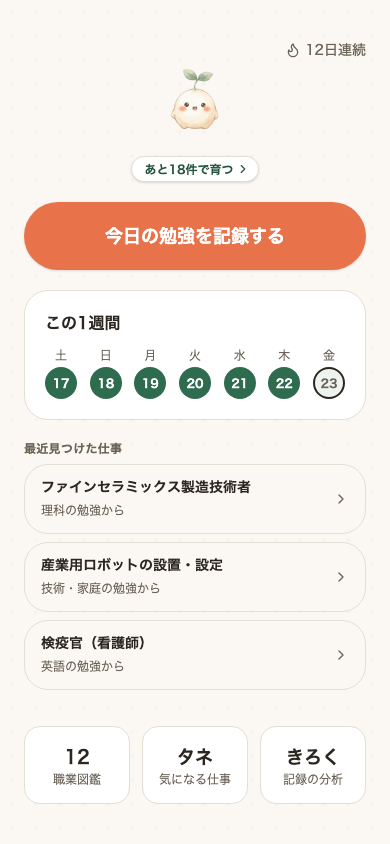
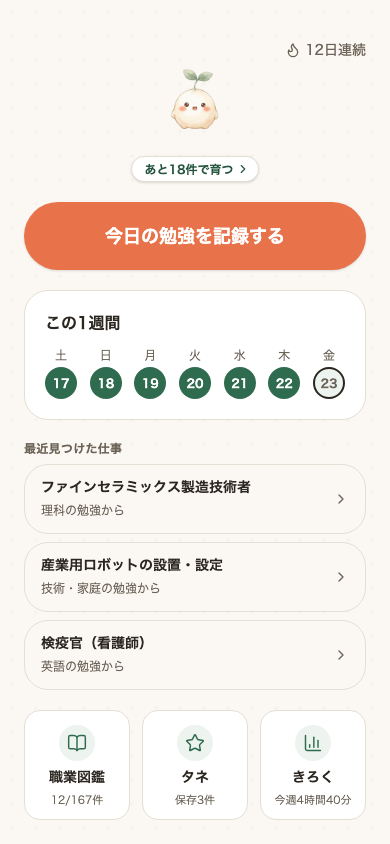
ホーム下の3つのボタンを「アイコン・名前・今の状態」にそろえる
図鑑だけ数字が主役で、タネ・きろくは言葉だけと形がばらばらで、
何のボタンか読み取りにくかった。NavButtonにまとめ、職業図鑑（12/167件）・
タネ（保存3件）・きろく（今週の合計時間）を同じ形で出す。
「タネ」の名前は検証（Q3）で確かめるため変えていない。
ホームのスクリーンショットも撮り直し。

Changed region(s): [[0.4, 0.8626, 0.5846, 0.955], [0.7077, 0.8626, 0.8923, 0.955], [0.1231, 0.8626, 0.2769, 0.955]]

diff --git a/web/src/components/HomeScreen.tsx b/web/src/components/HomeScreen.tsx
@@ -1,8 +1,9 @@
-import { ChevronRight, Flame } from "lucide-react"
+import { BarChart3, BookOpen, ChevronRight, Flame, Star, type LucideIcon } from "lucide-react"
 import { useState } from "react"
 import { motion } from "framer-motion"
 import type { RecordDetails, StudyLogEntry } from "../storage"
-import { stageProgress } from "../taneStage"
+import { formatMinutes } from "../format"
+import { MAX_JOB_COUNT, stageProgress } from "../taneStage"
 import { TaneCharacter } from "./TaneCharacter"
 import { TaneSpeech } from "./TaneSpeech"
 
@@ -16,6 +17,9 @@ interface Props {
   todaysTotalMinutes: number
   streak: number
   zukanCount: number
+  taneCount: number
+  /** 直近7日間の合計勉強時間（分）。きろくボタンに出す。 */
+  weeklyMinutes: number
   todaysDiscoveredJob: { jobId: number; jobName: string } | null
   /** 最近見つけた仕事（今日の分を除き、新しい順に最大3件）。 */
   recentJobs: { jobId: number; jobName: string; subject: string }[]
@@ -38,6 +42,8 @@ export function HomeScreen({
   todaysTotalMinutes,
   streak,
   zukanCount,
+  taneCount,
+  weeklyMinutes,
   todaysDiscoveredJob,
   recentJobs,
   toast,
@@ -330,32 +336,44 @@ export function HomeScreen({
       </div>
 
       {/* 行動する（次へ）: 深掘り先への導線 */}
-      <div className="mt-auto grid grid-cols-3 gap-3">
-        <button
-          type="button"
-          onClick={onOpenZukan}
-          className="rounded-2xl border border-border-soft bg-white py-4 text-center transition hover:border-sage-600"
-        >
-          <p className="text-lg font-bold">{zukanCount}</p>
-          <p className="text-xs text-charcoal-muted">職業図鑑</p>
-        </button>
-        <button
-          type="button"
-          onClick={onOpenTane}
-          className="rounded-2xl border border-border-soft bg-white py-4 text-center transition hover:border-sage-600"
-        >
-          <p className="text-lg font-bold">タネ</p>
-          <p className="text-xs text-charcoal-muted">気になる仕事</p>
-        </button>
-        <button
-          type="button"
+      {/* 3つとも「アイコン・名前・今の状態」の同じ形にそろえる（以前は図鑑だけ数字が主役で、
+          何のボタンか読み取りにくかった） */}
+      <nav aria-label="ほかの画面" className="mt-auto grid grid-cols-3 gap-3">
+        <NavButton icon={BookOpen} label="職業図鑑" detail={`${zukanCount}/${MAX_JOB_COUNT}件`} onClick={onOpenZukan} />
+        <NavButton icon={Star} label="タネ" detail={`保存${taneCount}件`} onClick={onOpenTane} />
+        <NavButton
+          icon={BarChart3}
+          label="きろく"
+          detail={weeklyMinutes > 0 ? `今週${formatMinutes(weeklyMinutes)}` : "今週まだなし"}
           onClick={onOpenKiroku}
-          className="rounded-2xl border border-border-soft bg-white py-4 text-center transition hover:border-sage-600"
-        >
-          <p className="text-lg font-bold">きろく</p>
-          <p className="text-xs text-charcoal-muted">記録の分析</p>
-        </button>
-      </div>
+        />
+      </nav>
     </div>
+  )
+}
+
+function NavButton({
+  icon: Icon,
+  label,
+  detail,
+  onClick,
+}: {
+  icon: LucideIcon
+  label: string
+  detail: string
+  onClick: () => void
+}) {
+  return (
+    <button
+      type="button"
+      onClick={onClick}
+      className="flex flex-col items-center gap-1.5 rounded-2xl border border-border-soft bg-white px-1 pt-3.5 pb-3 transition hover:border-sage-600 active:scale-95"
+    >
+      <span className="flex h-9 w-9 items-center justify-center rounded-full bg-sage-50">
+        <Icon className="h-5 w-5 text-sage-600" strokeWidth={1.75} />
+      </span>
+      <span className="text-sm font-bold">{label}</span>
+      <span className="text-[11px] leading-tight text-charcoal-muted">{detail}</span>
+    </button>
   )
 }

diff --git a/web/src/App.tsx b/web/src/App.tsx
@@ -25,6 +25,7 @@ import {
   todaysTotalMinutes,
   toggleTane,
   weeklySubjectTotals,
+  weeklyTotalMinutes,
   weekSummary,
   type AppState,
   type RecordDetails,
@@ -202,6 +203,8 @@ function App() {
         todaysTotalMinutes={todaysTotalMinutes(appState)}
         streak={appState.streak}
         zukanCount={appState.zukan.length}
+        taneCount={appState.taneIds.length}
+        weeklyMinutes={weeklyTotalMinutes(appState)}
         todaysDiscoveredJob={todaysDiscoveredJob}
         recentJobs={recentJobs}
         toast={homeToast}
